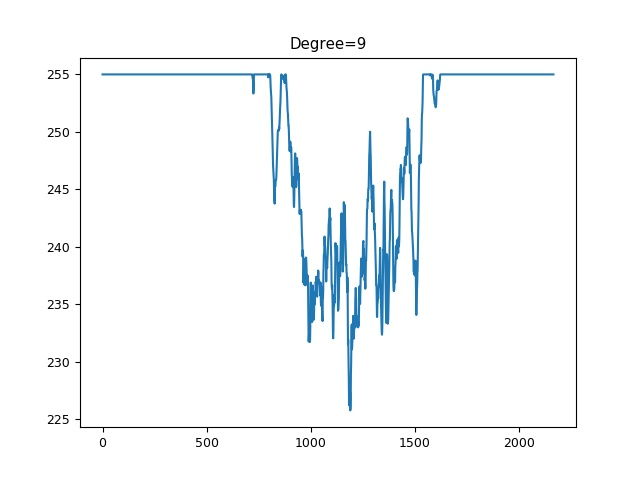
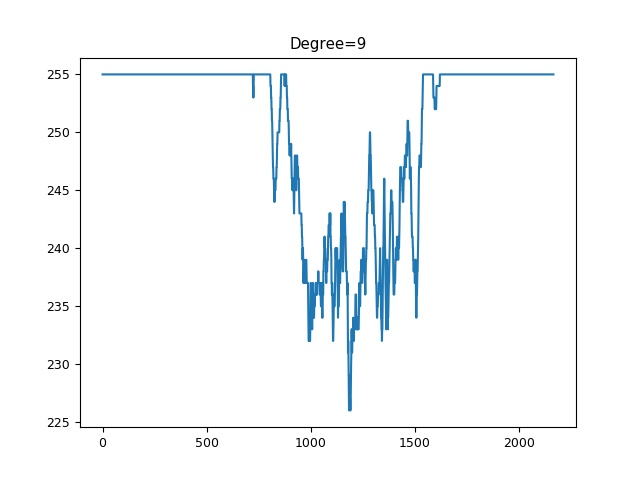
optimum rotation achieved for the preprocessing

diff --git a/Preprocess/preprocess.py b/Preprocess/preprocess.py
@@ -13,7 +13,7 @@ from skimage.io import imread, imsave, imshow
 from skimage.filters import threshold_sauvola, threshold_otsu
 from skimage.transform import rotate
 
-from .tools.peakdetect import *
+from Preprocess.tools.peakdetect import *
 
 matplotlib.rcParams['font.size'] = 9
 
@@ -49,22 +49,81 @@ def binariseOtsu(image):
 
 def writeImage(image, filename):
     path_output = os.path.abspath(filename)
+    image = image.astype(np.uint8)
     imsave(fname=path_output,arr=image)
 
 
 # def getMainComponent(labeled_img_with_stats)
 #     return ''
 
-def getOptimumRotation(image, outputDirectory="Output"):
-    rotDegree = 0
-    for degree in range (-10, 10):
-        rotatedImage = rotate (image, degree)
-        writeImage(rotatedImage, outputDirectory+"/degree="+str(degree)+".jpg")
+def getOptimumRotation(image, outputDirectory='Output/rotated', lookahead=30, minDegree=-10, maxDegree=10):
+    optimumRotDegree = 0
+    optimumScore = 0
+    optimumRotImage = image
+    for degree in range (minDegree, maxDegree):
 
-        # Create a model to quantify rotated images to determine the optimum one.
+        rotatedImage = rotate(image, degree, resize=False, cval=1, mode ='constant')
+        
+        # Rotate results in a normalised floating image -> convert it to uint8
+        rotatedImage = rotatedImage * 255
+        rotatedImage = rotatedImage.astype(np.uint8)
+        writeImage(rotatedImage, outputDirectory+'/rotated_' + str(degree) + '.jpg')
+
+        # 1 = column reduction.
+        # CV_REDUCE_AVG instead of sum, because we want the normalized number of pixels
+        histogram = cv2.reduce(rotatedImage, 1, cv2.REDUCE_AVG)
+        # Transpose column vector into row vector
+        histogram = histogram.reshape(-1)
+
+        plt.plot(histogram)
+        plt.title('Degree=' + str(degree))
+        plt.savefig(outputDirectory+'/histogram_' + str(degree) + '.jpg')
+        plt.clf()
+
+        line_peaks = peakdetect(histogram, lookahead=lookahead)
+
+        # Note: It is expected that the algorithm will give an equal number
+        # of positive and negative peaks.
+        numberPeaks = len(line_peaks[0])
+        for peak in range(0, numberPeaks):
+            score = line_peaks[0][peak][1] - line_peaks[1][peak][1]
+        score = score / numberPeaks
+
+        print ('Degree=' + str(degree) + '; Score=' + str(score))
+
+        if score > optimumScore:
+            optimumScore = score
+            optimumRotDegree = degree
+            optimumRotImage = rotatedImage
 
 
-    return rotatedImage, rotDegree
+    return optimumRotImage, optimumRotDegree
+
+
+# Rotate image with border. Credit:
+# https://www.pyimagesearch.com/2017/01/02/rotate-images-correctly-with-opencv-and-python/
+def rotate_bound(image, angle):
+    # grab the dimensions of the image and then determine the center
+    (h, w) = image.shape[:2]
+    (cX, cY) = (w // 2, h // 2)
+ 
+    # grab the rotation matrix (applying the negative of the
+    # angle to rotate clockwise), then grab the sine and cosine
+    # (i.e., the rotation components of the matrix)
+    M = cv2.getRotationMatrix2D((cX, cY), -angle, 1.0)
+    cos = np.abs(M[0, 0])
+    sin = np.abs(M[0, 1])
+ 
+    # compute the new bounding dimensions of the image
+    nW = int((h * sin) + (w * cos))
+    nH = int((h * cos) + (w * sin))
+ 
+    # adjust the rotation matrix to take into account translation
+    M[0, 2] += (nW / 2) - cX
+    M[1, 2] += (nH / 2) - cY
+ 
+    # perform the actual rotation and return the image
+    return cv2.warpAffine(image, M, (nW, nH))
 
 
 # def trimImage(rotatedImage, blanks_allowed=10)
@@ -90,21 +149,21 @@ def preprocess(inputImageName, outputDirectory):
     writeImage(binarisedOtsu, outputDirectory+"/binarisedOtsu.jpg")
 
 
-    # Get the connected componenets
+    # Get the connected componenets. Get a feeling of how the connection is done.
     # Credit: https://stackoverflow.com/questions/46441893/connected-component-labeling-in-python
     ret, labels = cv2.connectedComponents(binarisedOtsu)
-
+    
     # Map component labels to hue val.
     label_hue = np.uint8(179 * labels / np.max(labels))
     blank_ch = 255 * np.ones_like(label_hue)
     labeled_img = cv2.merge([label_hue, blank_ch, blank_ch])
-
+    
     # cvt to BGR for display.
     labeled_img = cv2.cvtColor(labeled_img, cv2.COLOR_HSV2BGR)
-
+    
     # set bg label to black.
     labeled_img[label_hue == 0] = 0
-
+    
     writeImage(labeled_img, outputDirectory+"/labeled_otsu.jpg")
 
 
@@ -182,8 +241,7 @@ def preprocess(inputImageName, outputDirectory):
     negativeImage = 255 - negativeImage
     writeImage(negativeImage, outputDirectory+"/negativeImage2.jpg")
 
-    print(negativeImage)
-
+   
     nb_components, output, stats, centroids = cv2.connectedComponentsWithStats(negativeImage, connectivity=8)
     sizes = stats[:, -1]
     max_label = 1
@@ -242,6 +300,8 @@ def preprocess(inputImageName, outputDirectory):
 # Find optimum rotation
     rotatedImage, rotDegree = getOptimumRotation(maskedSauvola)
     print ("Optimum rotation=" + str(rotDegree))
+    writeImage(rotatedImage, outputDirectory+'/optimumRotation.jpg')
+
 
 # # Optionally, trim image from blank lines to have the main component only.
 # # (Use perhaps a blanks_allowed=10, i.e. have 10 white rows in each direction?)

diff --git a/Preprocess/tools/peakdetect.py b/Preprocess/tools/peakdetect.py
@@ -198,7 +198,6 @@ def peakdetect(y_axis, x_axis=None, lookahead=200, delta=0):
     # Only detect peak if there is 'lookahead' amount of points after it
     for index, (x, y) in enumerate(zip(x_axis[:-lookahead],
                                        y_axis[:-lookahead])):
-        y = y.any()
         if y > mx:
             mx = y
             mxpos = x
